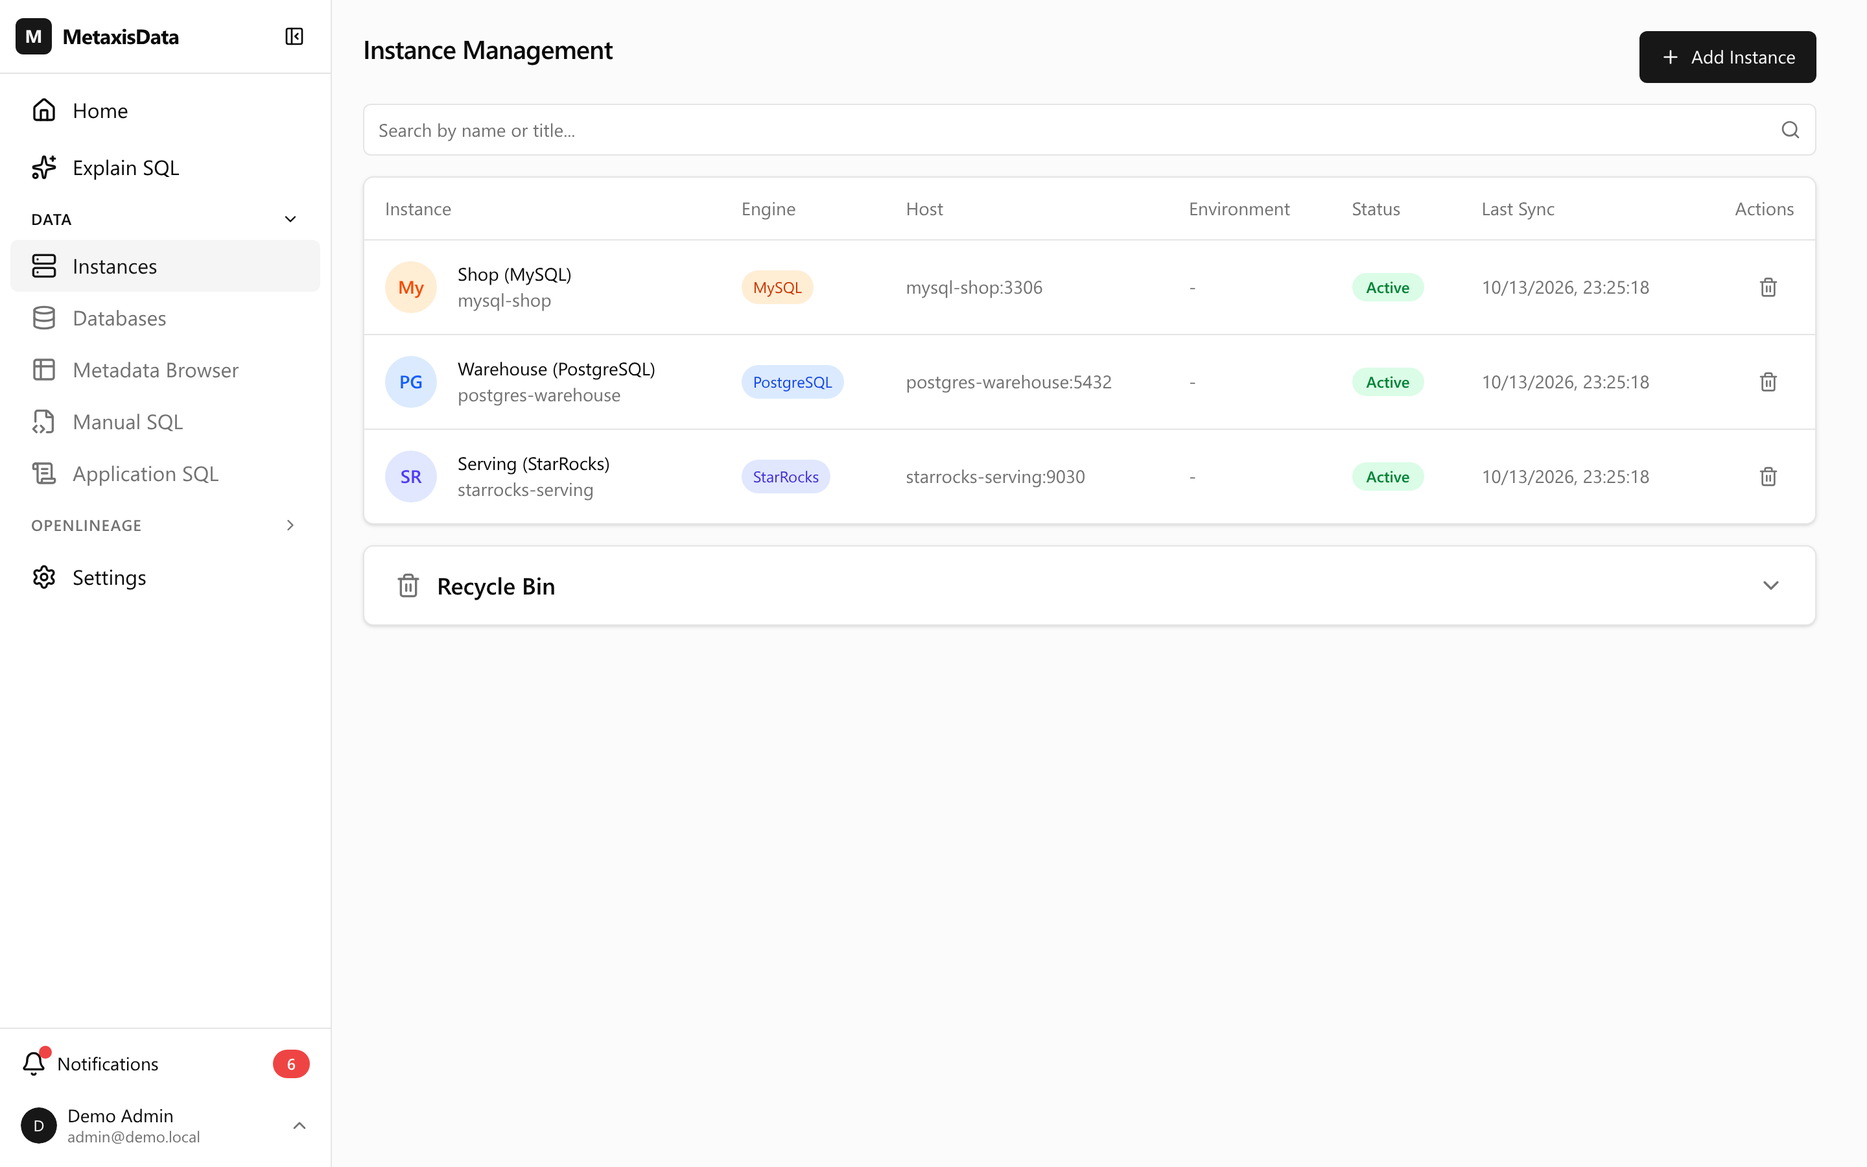
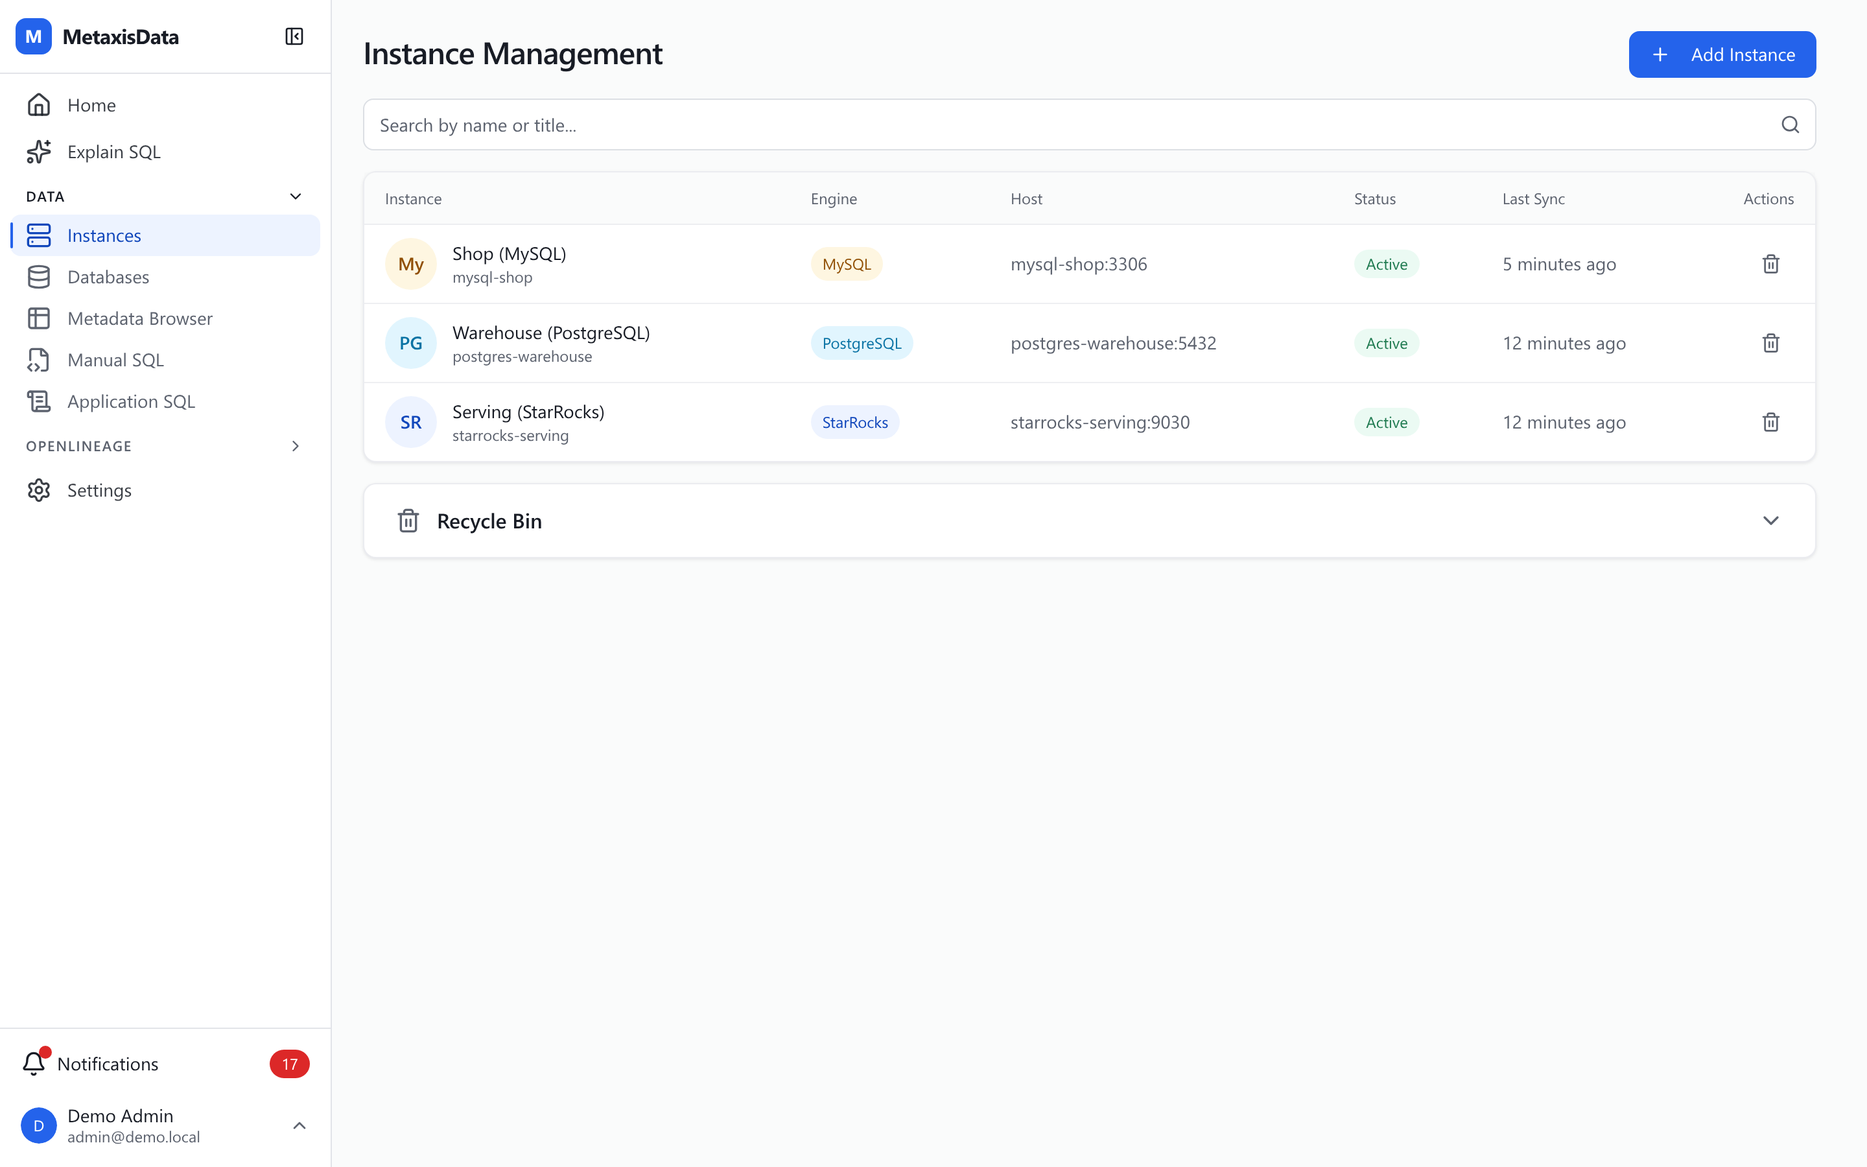
chore: pin the demo to metaxisdata v0.1.2
v0.1.2 = commit 0f76a74, image index digest sha256:5ff197b0…; the
v0.1.2 / 0.1.2 / sha-0f76a74 / latest tags all point at it.

- bump METAXISDATA_VERSION in .env.example and the compose fallback
- refresh the maintainer design notes (EN/ZH): new tag facts, capability
  probe, and what v0.1.2 changed without affecting the demo (MSSQL/Doris
  analyzers, token-based UI, connected apps/MCP, runner + OpenLineage
  fixes, hourly table-statistics refresh)
- re-capture the four README screenshots against the v0.1.2 token-based UI

diff --git a/.agent/docs/design.md b/.agent/docs/design.md
@@ -14,7 +14,7 @@
 | Item | Decision |
 | --- | --- |
 | Deliverable | A public repo, `metaxisdata-demo`, that runs the whole stack from one compose command |
-| Platform | Official image `ghcr.io/ranxy/metaxisdata:v0.1.1` — **never built from source**, so the demo stays small and focused on *how to use the product* |
+| Platform | Official image `ghcr.io/ranxy/metaxisdata:v0.1.2` — **never built from source**, so the demo stays small and focused on *how to use the product* |
 | Databases | MySQL 8 (`shop`, OLTP) → PostgreSQL 16 (`warehouse`, ods/dwd/ads) → StarRocks (`serving`, OLAP) + the platform's own PostgreSQL store |
 | ETL | Airflow 3.1 in a single `airflow standalone` container, with a small `SqlCopyOperator` for the cross-engine hops |
 | Lineage sources | SQL analyzers (views / materialized views), OpenLineage (SQL facet + column-level facet), manual SQL, application SQL |
@@ -55,16 +55,16 @@ this machine's Docker host. Nothing here is assumed.
 
 | Capability | Fact |
 | --- | --- |
-| Engines accepted | `MSSQL, MYSQL, POSTGRES, TIDB, MARIADB, OCEANBASE, STARROCKS, DORIS` (`proto/store/store/common.proto:16-30`, enforced at `backend/api/v1/instance_service.go:185-194`) |
+| Engines accepted | `MSSQL, MYSQL, POSTGRES, TIDB, MARIADB, OCEANBASE, STARROCKS, DORIS` (`proto/store/store/common.proto:16-30`, enforced at `backend/api/v1/instance_service.go:194-210`) |
 | Schema sync | All eight engines implement instance + schema sync (`backend/plugin/db/{mysql,pg,starrocks,mssql}`) |
-| SQL lineage analyzers | MySQL family, PostgreSQL, StarRocks only — **MSSQL has no analyzer** (`backend/plugin/lineage/engines/engines.go:26-34`) |
-| Instance creation | `CreateInstance` requires exactly one `ADMIN` data source and **already triggers a sync** (`backend/api/v1/instance_service.go:158-226`) |
+| SQL lineage analyzers | MySQL family (MySQL/TiDB/MariaDB), PostgreSQL, StarRocks, Doris and MSSQL; OceanBase is deliberately absent (`backend/plugin/lineage/engines/engines.go:31-40`) |
+| Instance creation | `CreateInstance` requires exactly one `ADMIN` data source and **already triggers a sync** (`backend/api/v1/instance_service.go:116-235`) |
 | Sync account | Schema sync always opens the `ADMIN` data source, never a `READ_ONLY` one (`backend/runner/schemasync/syncer.go:448,601`) |
 | First account | `CreateUser` is credential-exempt while no end user exists; the first `END_USER` becomes `workspaceAdmin` (`backend/api/v1/user_service.go:243-270`) |
 | Password policy | Enforced: length, digits, letters, uppercase, special characters (`backend/api/v1/user_service.go:277-292`) |
 | Scripting transport | ConnectRPC `POST /metaxisdata.v1.<Service>/<Method>` (protojson) alongside the grpc-gateway `/v1/*` mirror. Request bodies differ (`body: "user"` vs `{"user": …}`) — **scripts use the Connect paths** |
 | CSRF | Any request carrying `Authorization` is exempt; cookie-less requests pass (`backend/server/csrf.go:29-34`) |
-| OpenLineage ingestion | `POST /api/v1/lineage` (+ `/batch`), plain REST, **requires `Authorization: Bearer ol_…`**; RunEvents only; **only `COMPLETE` events produce lineage** (`backend/api/v1/openlineage_handler.go:148-166`, `backend/plugin/openlineage/processor.go:48-72`) |
+| OpenLineage ingestion | `POST /api/v1/lineage` (+ `/batch`), plain REST, **requires `Authorization: Bearer ol_…`**; RunEvents only; **only `COMPLETE` events produce lineage** (`backend/api/v1/openlineage_handler.go:148-166`, `backend/plugin/openlineage/processor.go:51-63`) |
 | SQL-facet events | Ingested events that carry `job.facets.sql` are **re-analysed by the server's own analyzer**; the producer's `columnLineage` facet is deliberately ignored (`backend/plugin/openlineage/sql_facet_lineage.go`) |
 | Unmapped namespaces | Not an error: the dataset falls back to `external:<namespace>:<name>` and admins get a deduped notification (`backend/plugin/openlineage/resolver.go:120-213`) |
 | Airflow deep links | Derived from the event's `run.facets.airflow.taskInstance.log_url`; no extra configuration (`backend/plugin/openlineage/airflow_links.go:9-47`) |
@@ -73,15 +73,26 @@ this machine's Docker host. Nothing here is assumed.
 | Process env | The server process reads only `PG_URL` (required), `METAXISDATA_ENCRYPTION_KEY`, `METAXISDATA_ENCRYPTION_KEY_PREVIOUS`; the other `METAXISDATA_*` names are image entrypoint → flag mappings |
 | Store bootstrap | The schema is migrated at start-up; the DB user needs `CREATE TABLE` and `CREATE EXTENSION` (`pg_trgm`) |
 
-### 2.2 Published image: what v0.1.1 contains
+### 2.2 Published image: what v0.1.2 contains
 
 All GHCR tags were compared and the image binary probed:
 
-- Tags published: `v0.1.1`, `0.1.1`, `sha-ffc38ba`, `latest` (all pointing at `sha256:db3b75d2…`), plus the older `v0.1.0` line.
-- `v0.1.1` = commit `ffc38ba`, build time `2026-10-13`.
+- Tags published: `v0.1.2`, `0.1.2`, `sha-0f76a74`, `latest` (all pointing at `sha256:5ff197b0…`), plus the older `v0.1.1` and `v0.1.0` lines.
+- `v0.1.2` = commit `0f76a74`, build time `2026-10-19`.
 - Feature probe on the image binary: `applicationSql`, `application-sql`, `identityProviders`,
-  `IdentityProviderService`, `manualSqls`, `namespaceMappings`, `deviceLogins`, `mcp_enabled` — all present.
+  `IdentityProviderService`, `manualSqls`, `namespaceMappings`, `deviceLogins`, `mcp_enabled`,
+  `connectedApp`, `ConnectedAppService` — all present.
 - Consequently **no capability detection is needed**: every scenario in this design is available in the pinned image.
+
+What moved between v0.1.1 and v0.1.2, and why the demo is unaffected:
+
+| Change in v0.1.2 | Effect on this demo |
+| --- | --- |
+| **MSSQL and Doris column-lineage analyzers**, plus CTE / wildcard / temporary-relation / StarRocks-internal-schema fixes | The default chain is MySQL → PostgreSQL → StarRocks and keeps writing the same SQL; the `extra` profile's SQL Server instance stays metadata-only. |
+| **Token-based UI design system** (blue accent, brand badge, semantic status tones) | No route, API or walkthrough step changes; the screenshots in `assets/` were re-captured against this image. |
+| **Connected apps / MCP management** (UI + API) | The `mcp` profile is still designed-not-implemented; the default stack does not exercise it. |
+| **Runner hardening and OpenLineage dataset fixes** (column-lineage support derived from stored edges, unique lineage edges) | The demo's SQL-facet and run-event paths behave as before; `make smoke` and the walkthrough are unchanged. |
+| **Table statistics decoupled from the schema diff** (refreshed at most once an hour per database, refresh times tracked in memory) | A cold `make up` stores MySQL's discovery-time InnoDB estimates (0 rows / 16 KB) until the next refresh; restart the platform and run a full sync to force one. The README screenshots use refreshed values. |
 
 ### 2.3 Reference implementation: `test/e2e_etl`
 
@@ -151,7 +162,7 @@ Docker 29.9.0 / Compose 5.6.0, 24 cores, 45 GB RAM, 628 GB free on `/var/lib/doc
 | Service | Image | Host port | Role |
 | --- | --- | --- | --- |
 | `metadata-db` | `postgres:16-alpine` | — | The platform's own store |
-| `metaxisdata` | `ghcr.io/ranxy/metaxisdata:${METAXISDATA_VERSION:-v0.1.1}` | `8083:8083` | Platform server + SPA |
+| `metaxisdata` | `ghcr.io/ranxy/metaxisdata:${METAXISDATA_VERSION:-v0.1.2}` | `8083:8083` | Platform server + SPA |
 | `mysql-shop` | `mysql:8.4` | — (opt-in `13306`) | OLTP source, database `shop`, seeded from `fixture/mysql/` |
 | `postgres-warehouse` | `postgres:16` | — (opt-in `15432`) | Warehouse, database `warehouse`, schemas `ods`/`dwd`/`ads` |
 | `starrocks-serving` | `starrocks/allin1-ubuntu:4.1-latest`, `mem_limit: 4g` | — (opt-in `19030`/`18030`) | Serving layer, databases `ods`/`ads` |
@@ -199,7 +210,7 @@ implemented; the README's *What is not included* section states what that means 
 
 | # | Decision | Alternatives | Why |
 | --- | --- | --- | --- |
-| **D1** | Use the **official image only**, pinned by `METAXISDATA_VERSION` (default `v0.1.1`) | Build from source; track `latest` | The demo repo is public and independent of the source repo. A pinned tag is reproducible; `latest` drifts |
+| **D1** | Use the **official image only**, pinned by `METAXISDATA_VERSION` (default `v0.1.2`) | Build from source; track `latest` | The demo repo is public and independent of the source repo. A pinned tag is reproducible; `latest` drifts |
 | **D2** | Default ETL is **Airflow + a small `SqlCopyOperator` + `SQLExecuteQueryOperator`**; DataX becomes the optional `datax` profile | Make DataX the default | DataX has no reliable binary source and needs a JVM; a demo about metaxisdata should not depend on it. The profile keeps the faithful e2e replay available |
 | **D3** | One **`airflow standalone`** container instead of webserver + scheduler + triggerer | Three containers | Fewer moving parts for a demo; `etl-runner` shares the image and drives the CLI, so no API auth is involved |
 | **D4** | Bootstrap over **ConnectRPC + a bearer token** | grpc-gateway `/v1/*`; Playwright; the `mxd` CLI | The gateway's `body: "x"` rule makes request shapes differ; bearer requests skip CSRF; the CLI cannot create instances or sync |
@@ -556,7 +567,7 @@ conventional-commit style used by the source repo.
 | --- | --- |
 | ETL component | Airflow with the built-in `SqlCopyOperator`; DataX is an optional profile |
 | Engine scope | MySQL + PostgreSQL + StarRocks by default; SQL Server / MariaDB behind `extra` |
-| Platform image | Official image only, never built from source; pinned by `METAXISDATA_VERSION` (v0.1.1) |
+| Platform image | Official image only, never built from source; pinned by `METAXISDATA_VERSION` (v0.1.2) |
 | Repository | Public — no credentials, no tokens, throwaway demo values only |
 | Documentation | English first, with a Chinese mirror; all code comments in English |
 | Verification | Light `make smoke`, not a test suite |
@@ -570,4 +581,4 @@ conventional-commit style used by the source repo.
    despite the extra 1.5 GB image and 2 GB of RAM? *(Assumed: three by default.)*
 3. Screenshots: four are in `assets/`, captured against the running demo with headless Chrome driven over
    CDP (English, light theme). They are not regenerated automatically — re-capture them by hand when the UI
-   changes. Add more if the walkthrough would benefit.
+   changes (last done for v0.1.2). Add more if the walkthrough would benefit.

diff --git a/.agent/docs/design.zh.md b/.agent/docs/design.zh.md
@@ -12,7 +12,7 @@
 | 项 | 结论 |
 | --- | --- |
 | 交付形态 | 公开仓库 `metaxisdata-demo`，一条 compose 命令拉起整栈 |
-| 平台 | **只用官方镜像** `ghcr.io/ranxy/metaxisdata:v0.1.1`，不从源码构建，保持轻量、专注「怎么用」 |
+| 平台 | **只用官方镜像** `ghcr.io/ranxy/metaxisdata:v0.1.2`，不从源码构建，保持轻量、专注「怎么用」 |
 | 数据库 | MySQL 8（`shop`，OLTP）→ PostgreSQL 16（`warehouse`，ods/dwd/ads）→ StarRocks（`serving`，OLAP）+ 平台自身 PostgreSQL 存储 |
 | ETL | Airflow 3.1 单容器 `airflow standalone` + 自带 `SqlCopyOperator` 承担跨库搬运 |
 | 血缘来源 | SQL 分析器（视图/物化视图）、OpenLineage（SQL facet + 列级 facet）、手工 SQL、应用 SQL |
@@ -50,16 +50,16 @@
 
 | 能力 | 事实 |
 | --- | --- |
-| 支持的引擎 | `MSSQL / MYSQL / POSTGRES / TIDB / MARIADB / OCEANBASE / STARROCKS / DORIS`（`proto/store/store/common.proto:16-30`，服务端白名单 `backend/api/v1/instance_service.go:185-194`） |
+| 支持的引擎 | `MSSQL / MYSQL / POSTGRES / TIDB / MARIADB / OCEANBASE / STARROCKS / DORIS`（`proto/store/store/common.proto:16-30`，服务端白名单 `backend/api/v1/instance_service.go:194-210`） |
 | 元数据采集 | 八种引擎都实现了实例与 schema 同步（`backend/plugin/db/{mysql,pg,starrocks,mssql}`） |
-| SQL 血缘分析器 | 只有 MySQL 系、PostgreSQL、StarRocks；**MSSQL 没有分析器**（`backend/plugin/lineage/engines/engines.go:26-34`） |
-| 建实例 | `CreateInstance` 必须恰好一个 `ADMIN` 数据源，且**成功即自动触发一次同步**（`backend/api/v1/instance_service.go:158-226`） |
+| SQL 血缘分析器 | MySQL 系（MySQL/TiDB/MariaDB）、PostgreSQL、StarRocks、Doris、MSSQL；OceanBase 故意不提供（`backend/plugin/lineage/engines/engines.go:31-40`） |
+| 建实例 | `CreateInstance` 必须恰好一个 `ADMIN` 数据源，且**成功即自动触发一次同步**（`backend/api/v1/instance_service.go:116-235`） |
 | 采集账号 | 采集永远用 `ADMIN` 数据源，`READ_ONLY` 不参与（`backend/runner/schemasync/syncer.go:448,601`） |
 | 首个账号 | 无用户时 `CreateUser` 免凭据；首个 `END_USER` 自动成为 `workspaceAdmin`（`backend/api/v1/user_service.go:243-270`） |
 | 密码策略 | 会校验长度/数字/字母/大写/特殊字符（`backend/api/v1/user_service.go:277-292`） |
 | 脚本化通道 | ConnectRPC `POST /metaxisdata.v1.<Service>/<Method>`（protojson）与 grpc-gateway `/v1/*` 并存；**两者 body 形状不同**，脚本统一用 Connect |
 | CSRF | 带 `Authorization` 的请求豁免；无 Cookie 的请求放行（`backend/server/csrf.go:29-34`） |
-| OL 摄入 | `POST /api/v1/lineage`（`/batch` 同义），纯 REST，**必须 `Authorization: Bearer ol_…`**；只接受 RunEvent；**只有 `COMPLETE` 事件产生血缘**（`backend/api/v1/openlineage_handler.go:148-166`、`backend/plugin/openlineage/processor.go:48-72`） |
+| OL 摄入 | `POST /api/v1/lineage`（`/batch` 同义），纯 REST，**必须 `Authorization: Bearer ol_…`**；只接受 RunEvent；**只有 `COMPLETE` 事件产生血缘**（`backend/api/v1/openlineage_handler.go:148-166`、`backend/plugin/openlineage/processor.go:51-63`） |
 | 带 SQL 的事件 | 带 `job.facets.sql` 的事件由**服务端自己的分析器**重算，生产者上报的 `columnLineage` facet 被**故意忽略**（`backend/plugin/openlineage/sql_facet_lineage.go`） |
 | 命名空间未映射 | 不报错：回退为 `external:<namespace>:<name>`，并给管理员发去重通知（`backend/plugin/openlineage/resolver.go:120-213`） |
 | Airflow 深链 | 由事件的 `run.facets.airflow.taskInstance.log_url` 自动派生（`backend/plugin/openlineage/airflow_links.go:9-47`） |
@@ -68,12 +68,23 @@
 | 进程环境变量 | 只有 `PG_URL`（必需）、`METAXISDATA_ENCRYPTION_KEY`、`METAXISDATA_ENCRYPTION_KEY_PREVIOUS`；其余 `METAXISDATA_*` 是镜像 entrypoint → flag 的映射 |
 | 存储 | 启动即自动迁移；数据库用户需要建表与建扩展（`pg_trgm`）权限 |
 
-### 2.2 已发布镜像 v0.1.1
+### 2.2 已发布镜像 v0.1.2
 
-- GHCR 上的 tag：`v0.1.1`、`0.1.1`、`sha-ffc38ba`、`latest`（都指向同一个 digest `sha256:db3b75d2…`），另有旧的 `v0.1.0` 系列。
-- `v0.1.1` = commit `ffc38ba`，构建于 2026-10-13。
-- 对镜像内二进制做特性探测：`applicationSql`、`application-sql`、`identityProviders`、`IdentityProviderService`、`manualSqls`、`namespaceMappings`、`deviceLogins`、`mcp_enabled` **全部存在**。
+- GHCR 上的 tag：`v0.1.2`、`0.1.2`、`sha-0f76a74`、`latest`（都指向同一个 digest `sha256:5ff197b0…`），另有旧的 `v0.1.1`、`v0.1.0` 系列。
+- `v0.1.2` = commit `0f76a74`，构建于 2026-10-19。
+- 对镜像内二进制做特性探测：`applicationSql`、`application-sql`、`identityProviders`、`IdentityProviderService`、`manualSqls`、`namespaceMappings`、`deviceLogins`、`mcp_enabled`、`connectedApp`、`ConnectedAppService` **全部存在**。
 - 因此**不需要能力探测**：本方案里的所有场景在固定镜像上都可用。
+
+v0.1.2 相对 v0.1.1 的变化，以及为什么 demo 不受影响：
+
+| v0.1.2 的变化 | 对本 demo 的影响 |
+| --- | --- |
+| **新增 MSSQL、Doris 列级血缘分析器**，并修复 CTE / 通配符 / 临时关系 / StarRocks 内部 schema | 默认链路是 MySQL → PostgreSQL → StarRocks，写入的 SQL 不变；`extra` profile 里的 SQL Server 实例仍只做元数据。 |
+| **基于 token 的 UI 设计系统**（蓝色主色、品牌徽标、语义状态色） | 路由、API、走查步骤均不变；`assets/` 截图已针对该镜像重新采集。 |
+| **Connected apps / MCP 管理**（前端 + API） | `mcp` profile 仍是「设计未实现」；默认栈不涉及。 |
+| **runner 加固与 OpenLineage dataset 修复**（列级血缘能力由已存边推导、血缘边唯一） | demo 的 SQL facet 与 run event 路径行为不变；`make smoke` 与走查不受影响。 |
+| **表统计与 schema diff 解耦**（每个数据库最多每小时刷新一次，刷新时间记在内存） | 冷启动 `make up` 会存下 MySQL discovery 时的 InnoDB 估算值（0 行 / 16 KB），直到下一次刷新；重启平台并跑一次 full sync 可强制刷新。README 截图使用的是刷新后的值。 |
+
 
 ### 2.3 参考实现 `test/e2e_etl`
 
@@ -137,7 +148,7 @@ Docker 29.9.0 / Compose 5.6.0，24 核 / 45GB RAM / 628GB 可用磁盘；`ghcr.i
 | 服务 | 镜像 | 宿主端口 | 作用 |
 | --- | --- | --- | --- |
 | `metadata-db` | `postgres:16-alpine` | — | 平台自身元数据库 |
-| `metaxisdata` | `ghcr.io/ranxy/metaxisdata:${METAXISDATA_VERSION:-v0.1.1}` | `8083:8083` | 平台 server + 前端 |
+| `metaxisdata` | `ghcr.io/ranxy/metaxisdata:${METAXISDATA_VERSION:-v0.1.2}` | `8083:8083` | 平台 server + 前端 |
 | `mysql-shop` | `mysql:8.4` | —（可选 `13306`） | OLTP 源库，数据库 `shop`，由 `fixture/mysql/` 初始化 |
 | `postgres-warehouse` | `postgres:16` | —（可选 `15432`） | 数仓，数据库 `warehouse`，schema `ods`/`dwd`/`ads` |
 | `starrocks-serving` | `starrocks/allin1-ubuntu:4.1-latest`，`mem_limit: 4g` | —（可选 `19030`/`18030`） | OLAP 服务层，数据库 `ods`/`ads` |
@@ -184,7 +195,7 @@ Docker 29.9.0 / Compose 5.6.0，24 核 / 45GB RAM / 628GB 可用磁盘；`ghcr.i
 
 | # | 决策 | 理由 |
 | --- | --- | --- |
-| **D1** | **只用官方镜像**，用 `METAXISDATA_VERSION` 固定（默认 `v0.1.1`） | demo 仓库公开且与源码仓库解耦；固定 tag 可复现，`latest` 会漂移 |
+| **D1** | **只用官方镜像**，用 `METAXISDATA_VERSION` 固定（默认 `v0.1.2`） | demo 仓库公开且与源码仓库解耦；固定 tag 可复现，`latest` 会漂移 |
 | **D2** | 默认 ETL = **Airflow + 自带 `SqlCopyOperator` + `SQLExecuteQueryOperator`**；DataX 降级为可选 profile | DataX 无可靠二进制、需要 JVM；demo 的主角是 metaxisdata |
 | **D3** | Airflow 用**单容器 `airflow standalone`** | 演示场景下组件越少越稳；`etl-runner` 共享镜像走 CLI，不需要 API 鉴权 |
 | **D4** | 引导走 **ConnectRPC + Bearer token** | gateway 与 Connect 的 body 形状不同易踩坑；带 Authorization 豁免 CSRF；`mxd` CLI 不能建实例/同步 |
@@ -433,7 +444,7 @@ metadata-db(healthy)
 | --- | --- |
 | ETL 组件 | Airflow + 自带 `SqlCopyOperator`；DataX 为可选 profile |
 | 引擎范围 | 默认 MySQL + PostgreSQL + StarRocks；SQL Server / MariaDB 走 `extra` |
-| 平台镜像 | 只用官方镜像、不从源码构建；由 `METAXISDATA_VERSION` 固定（v0.1.1） |
+| 平台镜像 | 只用官方镜像、不从源码构建；由 `METAXISDATA_VERSION` 固定（v0.1.2） |
 | 仓库 | 公开：零密钥、零 token，只有一次性 demo 凭据 |
 | 文档 | 英文为主 + 中文镜像；代码注释一律英文 |
 | 验证 | 轻量 `make smoke`，不做测试套件 |
@@ -445,4 +456,4 @@ metadata-db(healthy)
 1. 可选 profile 是否保持在默认快速开始之外，以保证首次启动足够快？（暂定：是）
 2. 三引擎是否足够支撑「不同数据库类型」的叙事，还是把 SQL Server 放进默认（代价 +1.5GB 镜像、+2GB 内存）？（暂定：默认三引擎）
 3. 截图：`assets/` 下已有 4 张，是对着运行中的 demo 用无头 Chrome（CDP）采集的（英文、浅色）。它们不是
-   自动生成的，UI 变化时需要手动重拍；如果走查需要，也可以再补。
+   自动生成的，UI 变化时需要手动重拍（v0.1.2 时已重拍一次）；如果走查需要，也可以再补。
